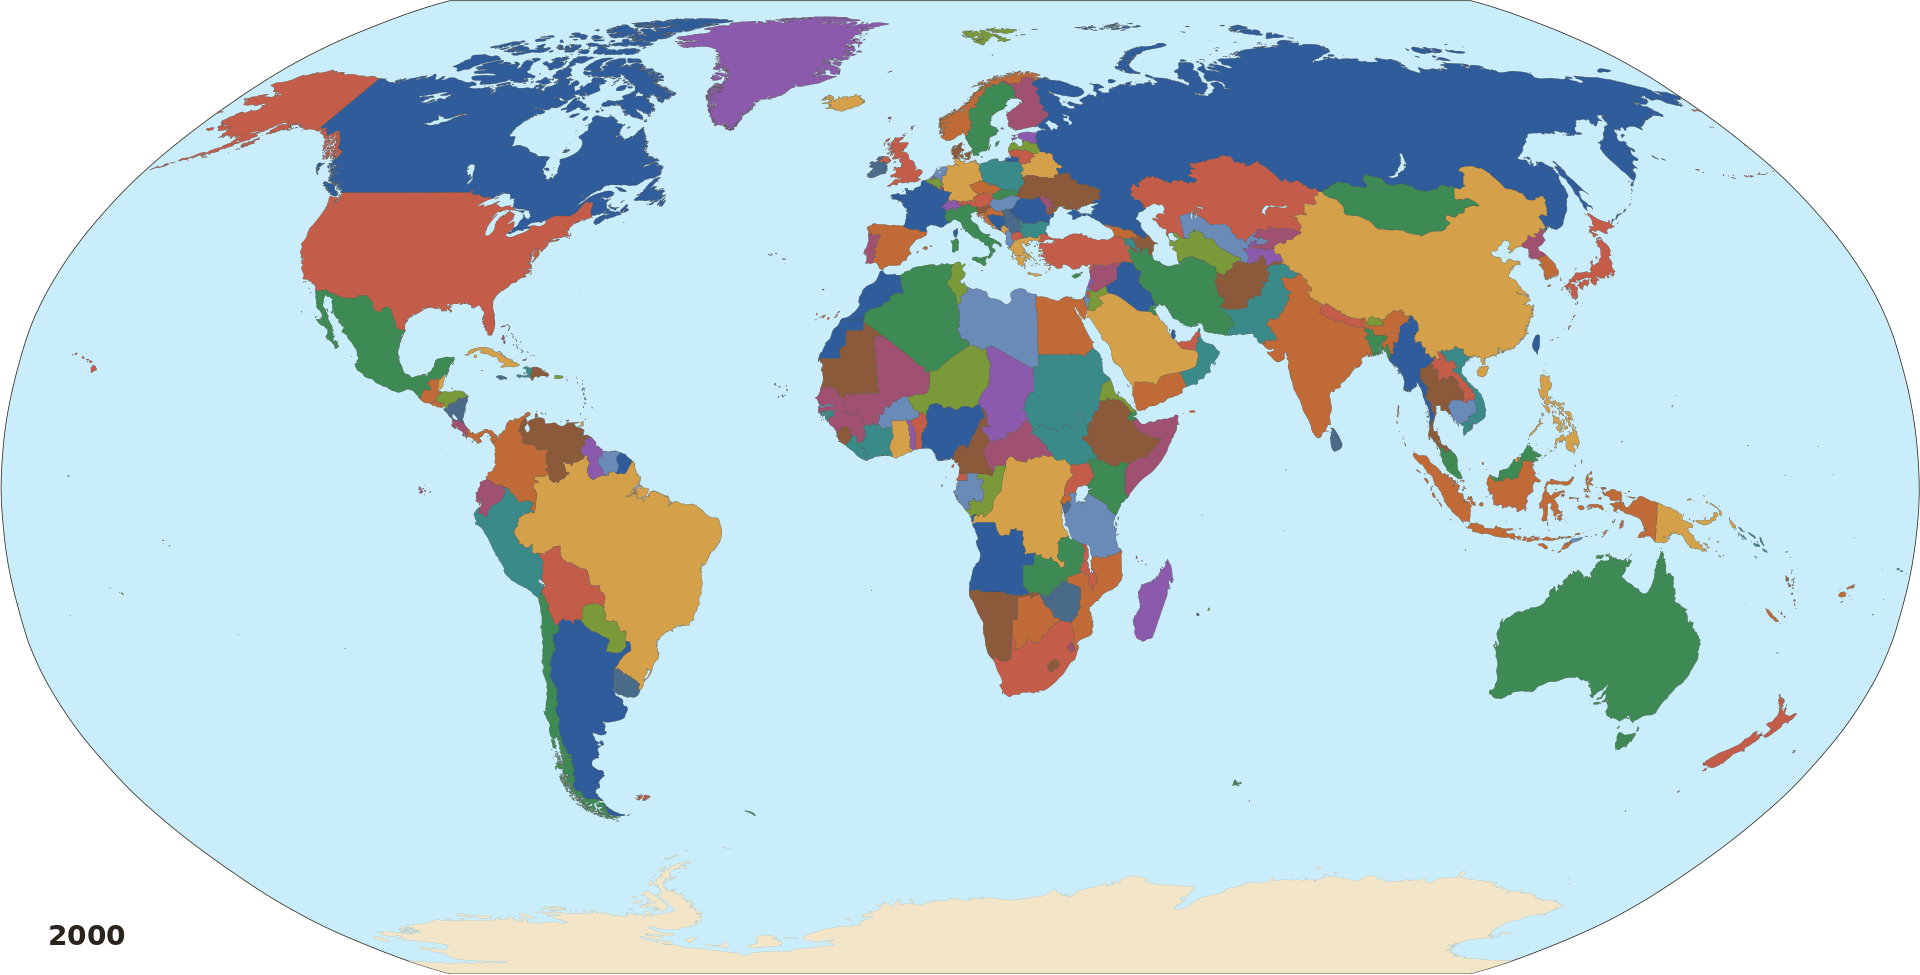
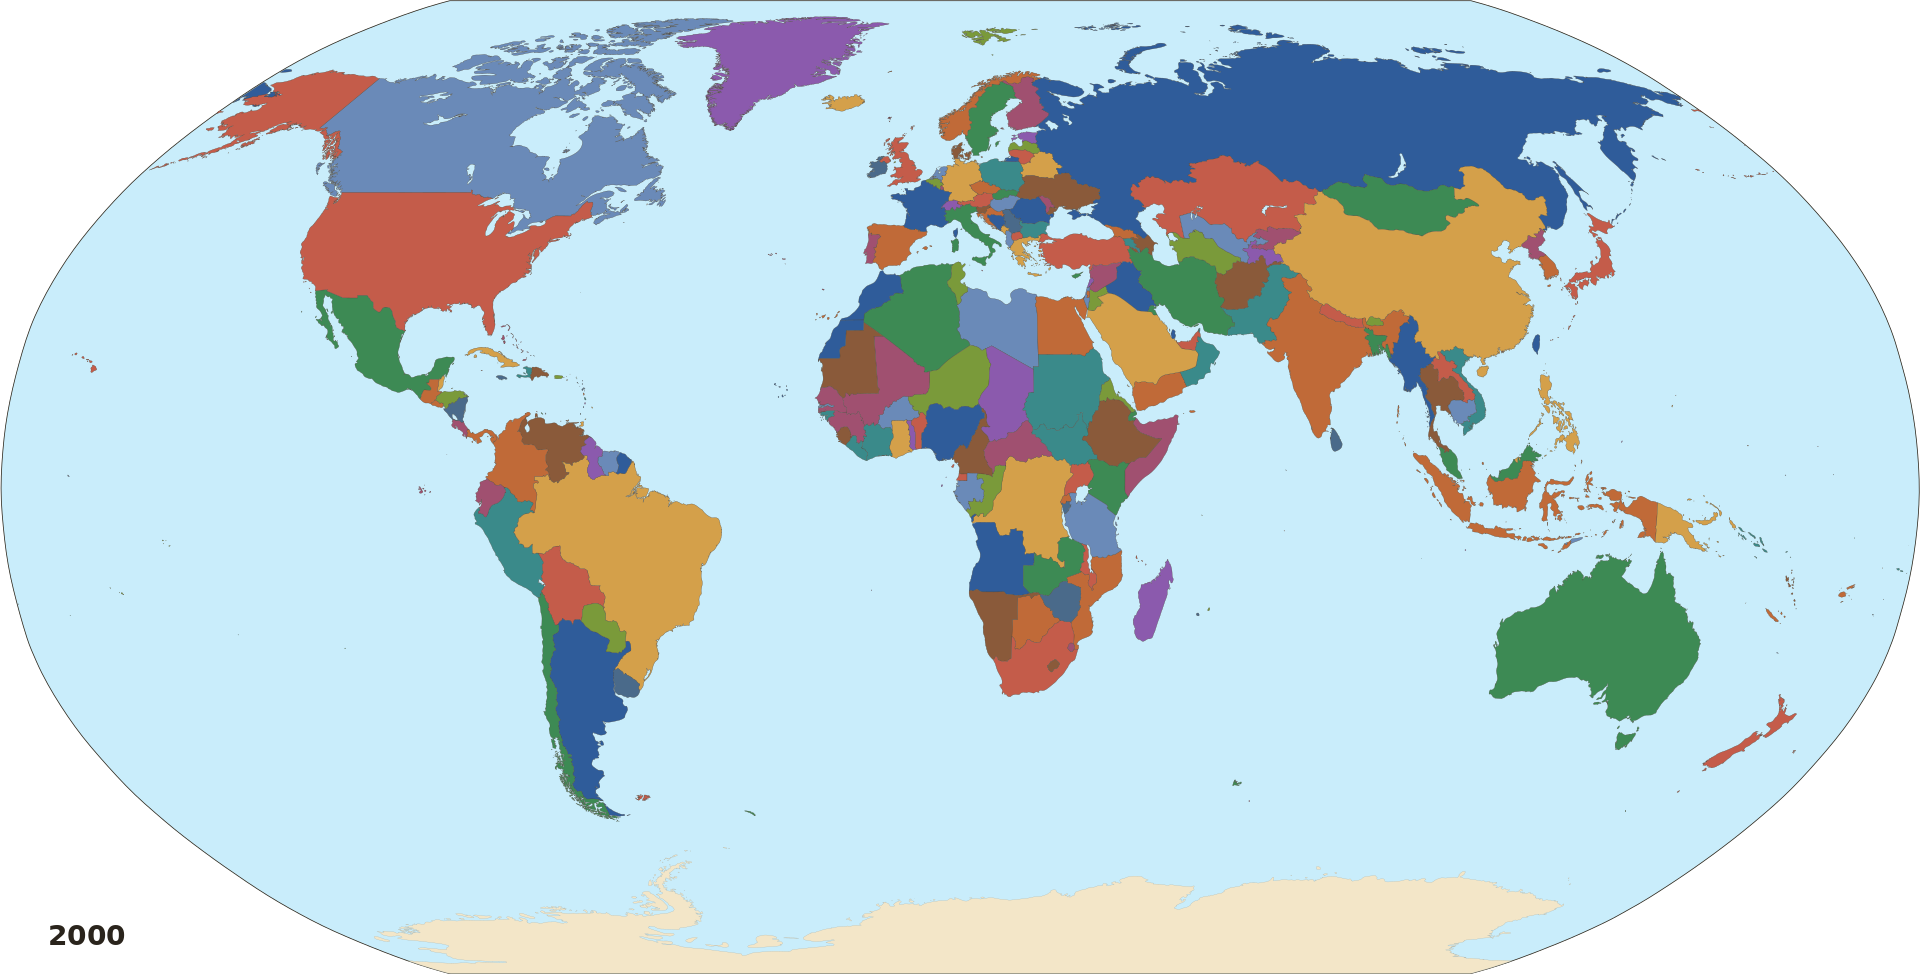
Restore Chukotka west of 180° on History of Borders 2000/2020.
BlankMap-World's Russia wrap at the antimeridian was a zero-area stub, so
Cape Dezhnev and Wrangel Island west of 180° rendered as ocean. Replace
that stub with Natural Earth 50m rings projected onto the same Robinson
oval, give Canada a distinct atlas fill so the Bering wrap is not
confused with Alaska's neighbor, and regenerate y2000.png and y2020.png.

Changed region(s): [[0.125, 0.0, 0.375, 0.2462]]

diff --git a/scripts/unify-border-history-style.py b/scripts/unify-border-history-style.py
@@ -44,7 +44,7 @@ ATLAS = [
 
 # Neighbor-aware overrides so large landmasses don't share a fill.
 COLOR_OVERRIDE = {
-    "us": 0, "ca": 1, "mx": 2, "gl": 3, "cu": 4, "gt": 5, "ht": 6,
+    "us": 0, "ca": 8, "mx": 2, "gl": 3, "cu": 4, "gt": 5, "ht": 6,
     "br": 4, "ar": 1, "co": 5, "pe": 6, "ve": 7, "cl": 2, "bo": 0,
     "gy": 3, "sr": 8, "ec": 9, "py": 10, "uy": 11, "fk": 0,
     "ru": 1, "cn": 4, "mn": 2, "kz": 0, "in": 5, "pk": 6, "af": 7,
@@ -290,4 +290,11 @@ def main() -> None:
 
 
 if __name__ == "__main__":
-    main()
+    import sys
+
+    if "--present-day" in sys.argv:
+        BORDERS.mkdir(parents=True, exist_ok=True)
+        render_present_day(BORDERS / "y2000.png", "2000")
+        render_present_day(BORDERS / "y2020.png", "2020")
+    else:
+        main()
